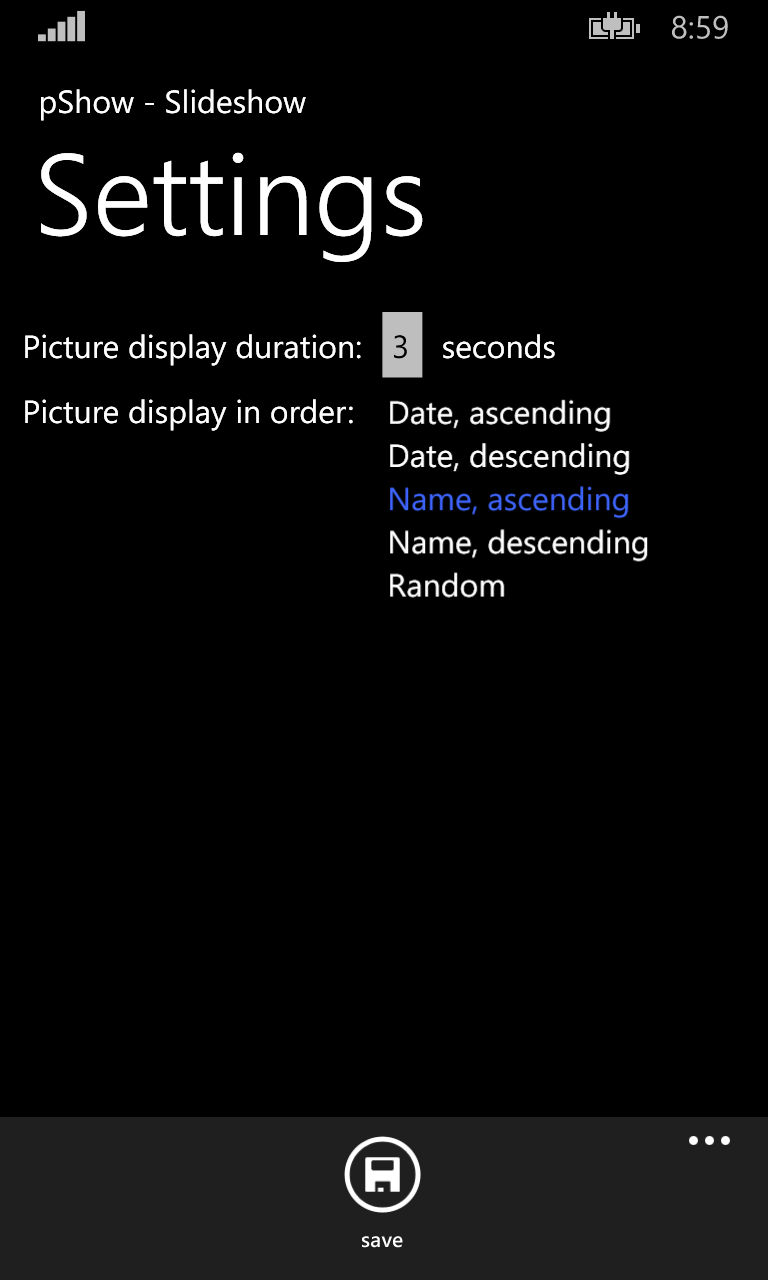
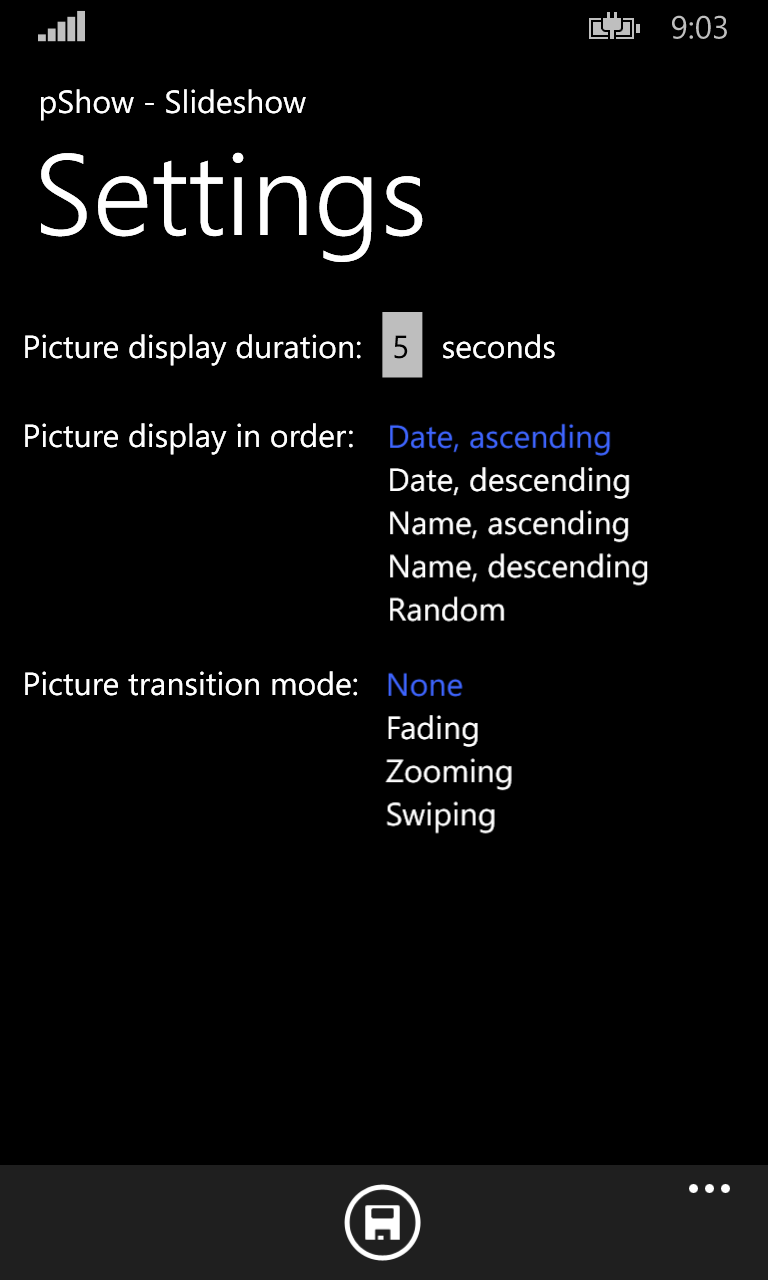
Enhanced visual transition smoothness. Updated preview picture to reflect additional setting.

diff --git a/pShow/SlideShow.xaml.cs b/pShow/SlideShow.xaml.cs
@@ -47,8 +47,8 @@ namespace pShow
                 CreateOptions = BitmapCreateOptions.IgnoreImageCache,
             };
             img.Source = bmp;
-            img.LayoutUpdated += startImageLoading;
             ContentPanel.Children.Add(img);
+            img.LayoutUpdated += startImageLoading;
         }
 
         /// <summary>
@@ -72,11 +72,12 @@ namespace pShow
                         slideShowThread.RunWorkerAsync(albumPics);
                         break;
                     case 2:
-                        ZoomInAnimation.To = ContentPanel.ActualHeight; 
+                        ZoomInAnimation.To = ContentPanel.ActualHeight;
                         ZoomIn.Begin();
                         slideShowThread.RunWorkerAsync(albumPics);
                         break;
                     case 3:
+                        img.Opacity = 1;
                         SwipeInAnimation.From = -ContentPanel.ActualWidth;
                         SwipeIn.Begin();
                         slideShowThread.RunWorkerAsync(albumPics);
@@ -192,7 +193,12 @@ namespace pShow
                         };
                         FadeOut.Begin();
                         break;
-                    default:
+                    case 2:
+                        img.Height = 0;
+                        bmp.SetSource(nextPicture);
+                        break;
+                    case 3:
+                        img.Opacity = 0;
                         bmp.SetSource(nextPicture);
                         break;
                 }
